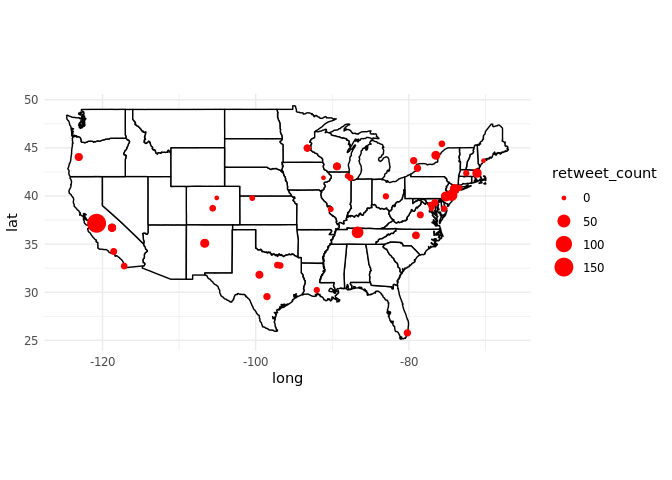
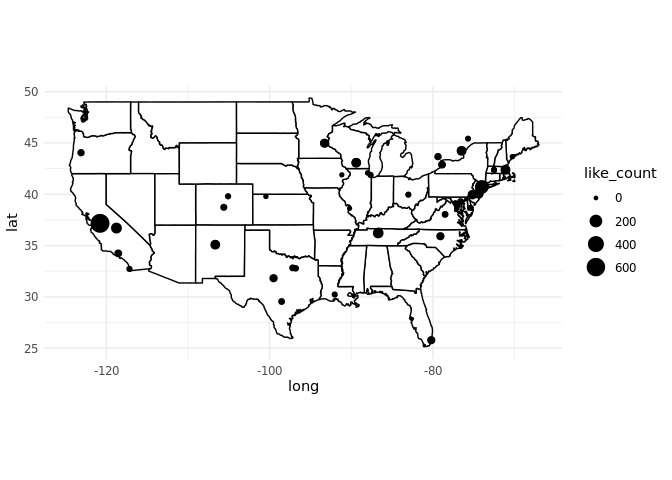
world map preliminary steps

diff --git a/README.md b/README.md
@@ -225,24 +225,31 @@ visualization will most likely employ color mapping.
 
 ``` r
 # Loading posible map to use
-worldmap <- ne_countries(scale = 'medium', type = 'map_units',
-                         returnclass = 'sf')
-
 world_map <- map_data("world")
 
 us_map <- map_data("state")
 
+canada_map <- map_data("world","canada")
 
-# ggplot() +
-#   geom_polygon(data = world_map, aes(x = long, y = lat, group = group), fill = "gray", color = "black") +
-#   geom_point(data = tweets, aes(x = long, y = lat, size = retweet_count), color = "red") +
-#   theme_minimal() +
-#   coord_fixed(1.3)
 
+ ggplot() +
+   geom_polygon(data = world_map, aes(x = long, y = lat, group = group), fill = "gray", color = "black") +
+   geom_point(data = tweets, aes(x = long, y = lat, size = retweet_count), color = "red") +
+   theme_minimal() +
+   coord_fixed(1.3)
+```
+
+    ## Warning: Removed 90 rows containing missing values (geom_point).
+
+![](README_files/figure-gfm/question-one-plot-two-1.png)<!-- -->
+
+``` r
   #coord_quickmap()
 
 
-tweets <- tweets%>%
+
+ 
+ tweets <- tweets%>%
   mutate(continent=case_when(long < -46 & (lat>20 & lat < 46) ~ "North America", 
                              (long > -100  & long<50) &(lat>-100 & lat <20) ~ "South America", 
                              (long > -50  & long<60) &(lat>-50 & lat <50) ~ "Africa", 
@@ -252,7 +259,26 @@ tweets <- tweets%>%
                           (long > 50  & long<150) &(lat>-12.5) ~ "Asia", 
                           
                         (long > 100) &(lat<-12.5) ~ "Oceania"))
+
+ 
+northeast <- tweets %>%
+  filter(long <= -70,
+         long >= -90,
+         lat <= 46,
+         lat >= 20)
+
+  ggplot() +
+   geom_polygon(data=canada_map, aes(x = long, y = lat, group = group), fill = "gray", color = "black") +
+  geom_polygon(data = us_map, aes(x = long, y = lat, group = group), fill = "gray", color = "black") +
+    geom_point(data = northeast, aes(x = long, y = lat, size = retweet_count), color = "red") +
+   theme_minimal() +
+   coord_map(xlim = c(-80, -65),
+             ylim = c(36, 46))
 ```
+
+    ## Warning: Removed 1 rows containing missing values (geom_point).
+
+![](README_files/figure-gfm/question-one-plot-two-2.png)<!-- -->
 
 ``` r
 tweets_NA<-tweets%>%
@@ -260,15 +286,21 @@ tweets_NA<-tweets%>%
 
 
 
-# just mapping us data, need to get rid of canada
-# ggplot() +
-#   geom_polygon(data = us_map, aes(x = long, y = lat, group = group), fill = "white", color = "black") +
-#   geom_point(data = tweets_NA, aes(x = long, y = lat, size = retweet_count), color = "red") +
-#   theme_minimal() +
-#   coord_quickmap()
+ #just mapping us data, need to get rid of canada
+ ggplot() +
+   geom_polygon(data = us_map, aes(x = long, y = lat, group = group), fill = "white", color = "black") +
+   geom_point(data = tweets_NA, aes(x = long, y = lat, size = like_count)) +
+   theme_minimal() +
+   coord_quickmap()
+```
 
-north_am <- worldmap[worldmap$continent == 'North America',]
-us <- worldmap[worldmap$name == 'United States',]
+    ## Warning: Removed 1 rows containing missing values (geom_point).
+
+![](README_files/figure-gfm/North_America-1.png)<!-- -->
+
+``` r
+#north_am <- worldmap[worldmap$continent == 'North America',]
+#us <- worldmap[worldmap$name == 'United States',]
 
 # New US map option
 # ggplot() + 
@@ -288,9 +320,6 @@ plots. Speculate about why the data looks the way it does.
 ## Question 2 \<- Update title to relate to the question you’re answering
 
 The second question we want to answer is:
-
-*How does Twitter verification status affect user construction of
-\#DuBois challenge tweets and how the audience reacts to those tweets?*
 
 *How does the time of day affect user construction of \#DuBois challenge
 tweets and how the audience reacts to those tweets?*
